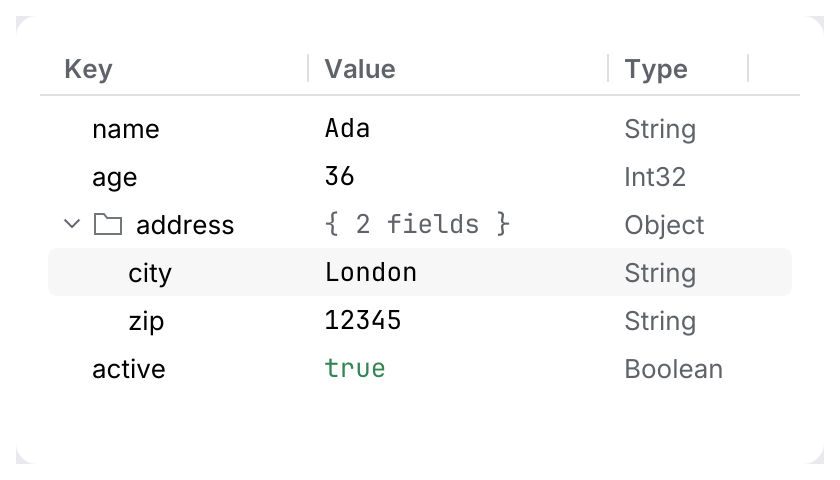
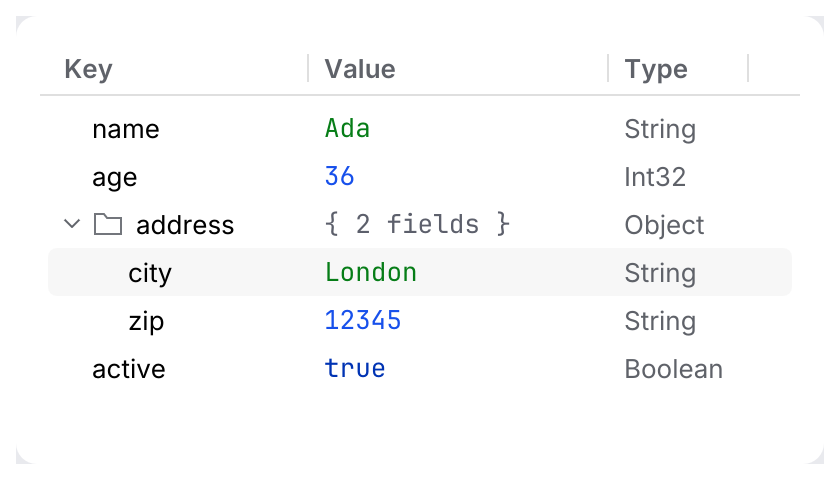
feat(collections): color table cells by value kind
Cell::value_kind(ValueKind) colors a cell with the editor syntax color of its
value type, in Table and TreeTable. Like a tone it keeps its color when the
row is selected; the last of .tone and .value_kind wins.

Claude-Session: https://claude.ai/code/session_0173x8kB9mSFHaRsoHsnffai

diff --git a/crates/archipel-kit/tests/collections.rs b/crates/archipel-kit/tests/collections.rs
@@ -7,7 +7,7 @@ use archipel_kit::components::{
 };
 use archipel_kit::icons::Language;
 use archipel_kit::testing::{self, NodeExt, Queryable};
-use archipel_kit::{Glyph, Theme, Tone};
+use archipel_kit::{Glyph, Theme, Tone, ValueKind};
 use egui::Key;
 
 fn label(i: usize) -> String {
@@ -382,15 +382,15 @@ fn document_cell(row: usize, col: usize, address_open: bool, name: &str, city: &
         ["name", "age", "address", "active"].as_slice()
     };
     match (keys[row], col) {
-        ("name", 1) => Cell::new(name).editable(true),
+        ("name", 1) => Cell::new(name).value_kind(ValueKind::String).editable(true),
         ("name", _) => Cell::new("String").muted(),
-        ("age", 1) => Cell::new("36").editable(true),
+        ("age", 1) => Cell::new("36").value_kind(ValueKind::Number).editable(true),
         ("age", _) => Cell::new("Int32").muted(),
-        ("address", 1) => Cell::new("{ 2 fields }").muted(),
+        ("address", 1) => Cell::new("{ 2 fields }").value_kind(ValueKind::Punctuation),
         ("address", _) => Cell::new("Object").muted(),
-        ("city", 1) => Cell::new(city).editable(true),
-        ("zip", 1) => Cell::new("12345"),
-        ("active", 1) => Cell::new("true").tone(Tone::Success),
+        ("city", 1) => Cell::new(city).value_kind(ValueKind::String).editable(true),
+        ("zip", 1) => Cell::new("12345").value_kind(ValueKind::Number),
+        ("active", 1) => Cell::new("true").value_kind(ValueKind::Boolean),
         ("active", _) => Cell::new("Boolean").muted(),
         _ => Cell::new("String").muted(),
     }
@@ -1027,4 +1027,42 @@ fn table_editing_snapshot() {
         ));
     }
     results.unwrap();
+}
+
+// ---- Cell::value_kind ----
+
+/// One row per value kind, the third (a string) selected: the kind colors stay when a row is
+/// selected, like tones do, and `.tone` still works next to `.value_kind`.
+#[test]
+fn table_value_kinds_snapshot() {
+    testing::snapshot_themes("table_value_kinds", common::IMG, |ui| {
+        ui.set_width(380.0);
+        let mut columns = vec![
+            Column::new("Kind", 90.0),
+            Column::new("Value", 200.0).mono(),
+            Column::new("Tone", 60.0),
+        ];
+        let mut selected = Some(0);
+        let samples = [
+            ("String", "\"Ada\"", ValueKind::String),
+            ("Number", "36", ValueKind::Number),
+            ("Boolean", "true", ValueKind::Boolean),
+            ("Null", "null", ValueKind::Null),
+            ("Date", "2026-10-11T09:30:00Z", ValueKind::Date),
+            ("ObjectId", "64f1a2b3c4d5e6f7a8b9c0d1", ValueKind::Id),
+            ("Binary", "BinData(0, 3q2+7w==)", ValueKind::Binary),
+            ("Key", "address", ValueKind::Key),
+            ("Punctuation", "{ 2 fields }", ValueKind::Punctuation),
+        ];
+        let _ = Table::new("kinds", &mut columns, samples.len(), &mut selected)
+            .height(24.0 * 9.0)
+            .show(ui, |row, col| match col {
+                0 => Cell::new(samples[row].0),
+                1 => Cell::new(samples[row].1).value_kind(samples[row].2),
+                // The last of tone and kind wins.
+                _ => Cell::new("tone")
+                    .value_kind(ValueKind::Number)
+                    .tone(Tone::Error),
+            });
+    });
 }

diff --git a/crates/archipel-kit/src/components/collections/mod.rs b/crates/archipel-kit/src/components/collections/mod.rs
@@ -14,7 +14,7 @@ pub use tree_table::TreeTable;
 use super::{ListRow, common};
 use crate::behaviour::{Behaviour, DragSource, DropTarget};
 use crate::icons::{self, Glyph, Icon};
-use crate::parts::Tone;
+use crate::parts::{Tone, ValueKind};
 use crate::theme::Theme;
 use crate::tokens::{radius, size, typography};
 use egui::{
@@ -591,12 +591,19 @@ impl Column {
     }
 }
 
+/// How a cell's text is colored: by meaning (a tone) or by value type.
+#[derive(Debug, Clone, Copy)]
+enum CellColor {
+    Tone(Tone),
+    Kind(ValueKind),
+}
+
 /// The content of a table cell.
 #[derive(Debug, Clone, Default)]
 pub struct Cell {
     text: String,
     icon: Option<Icon>,
-    tone: Option<Tone>,
+    color: Option<CellColor>,
     editable: bool,
 }
 
@@ -618,7 +625,7 @@ impl Cell {
     /// Meaning of the text's color: [`Tone::Error`] for a 500, [`Tone::Muted`] for nulls
     /// and timestamps.
     pub fn tone(mut self, tone: Tone) -> Self {
-        self.tone = Some(tone);
+        self.color = Some(CellColor::Tone(tone));
         self
     }
 
@@ -627,6 +634,15 @@ impl Cell {
     /// [`CollectionResponse::edited`].
     pub fn editable(mut self, editable: bool) -> Self {
         self.editable = editable;
+        self
+    }
+
+    /// The type of the value, colored like the code editor does ([`ValueKind::String`],
+    /// [`ValueKind::Number`], [`ValueKind::Null`] …): for document and JSON views. Like a
+    /// tone it keeps its color when the row is selected. Replaces an earlier
+    /// [`tone`](Self::tone) (and the other way round): the last call wins.
+    pub fn value_kind(mut self, kind: ValueKind) -> Self {
+        self.color = Some(CellColor::Kind(kind));
         self
     }
 
@@ -990,8 +1006,9 @@ pub(super) fn paint_cell(ui: &Ui, rect: Rect, column: &Column, cell: Cell, selec
     } else {
         typography::body(typography::BODY)
     };
-    let color = match (cell.tone, selected) {
-        (Some(tone), _) => tone.color(&colors),
+    let color = match (cell.color, selected) {
+        (Some(CellColor::Tone(tone)), _) => tone.color(&colors),
+        (Some(CellColor::Kind(kind)), _) => kind.resolve(ui.ctx()),
         (None, true) => colors.text_strong,
         (None, false) => colors.text,
     };

diff --git a/crates/archipel-kit-gallery/src/main.rs b/crates/archipel-kit-gallery/src/main.rs
@@ -198,9 +198,17 @@ impl Documents {
         .name("Documents")
         .height(220.0)
         .show(ui, |row, col| match self.index[row] {
-            (_, None) if col == 1 => Cell::new(format!("{{ {FIELDS} fields }}")).muted(),
+            (_, None) if col == 1 => {
+                Cell::new(format!("{{ {FIELDS} fields }}")).value_kind(ValueKind::Punctuation)
+            }
             (_, None) => Cell::new("Object").muted(),
-            (doc, Some(field)) if col == 1 => Cell::new(self.value(doc, field)).editable(true),
+            (doc, Some(field)) if col == 1 => Cell::new(self.value(doc, field))
+                .value_kind(match field % 3 {
+                    0 => ValueKind::Number,
+                    1 => ValueKind::String,
+                    _ => ValueKind::Boolean,
+                })
+                .editable(true),
             (_, Some(field)) => Cell::new(["Int32", "String", "Boolean"][field % 3]).muted(),
         });
         self.columns = columns;

diff --git a/docs/components/tree-table.md b/docs/components/tree-table.md
@@ -48,7 +48,7 @@ A double-click on a *non-editable* cell toggles a parent or activates a leaf, as
 
 ```rust
 use archipel_kit::components::{Cell, Column, TreeRow, TreeTable};
-use archipel_kit::{Glyph, egui};
+use archipel_kit::{Glyph, ValueKind, egui};
 
 struct Doc {
     columns: Vec<Column>,
@@ -69,9 +69,9 @@ fn document(ui: &mut egui::Ui, doc: &mut Doc) {
     let out = TreeTable::new("document", &mut doc.columns, &rows, &mut doc.selected)
         .name("Document")
         .show(ui, |row, col| match (row, col) {
-            (0, 1) => Cell::new(name.as_str()).editable(true),
-            (1, 1) => Cell::new("{ 1 field }").muted(),
-            (_, 1) => Cell::new("London"),
+            (0, 1) => Cell::new(name.as_str()).value_kind(ValueKind::String).editable(true),
+            (1, 1) => Cell::new("{ 1 field }").value_kind(ValueKind::Punctuation),
+            (_, 1) => Cell::new("London").value_kind(ValueKind::String),
             (1, _) => Cell::new("Object").muted(),
             _ => Cell::new("String").muted(),
         });
@@ -92,7 +92,7 @@ fn document(ui: &mut egui::Ui, doc: &mut Doc) {
 |---|---|
 | `TreeTable::new(id, &mut columns, &rows, &mut selected)` | `.sort(Option<(column, SortOrder)>)`, `.name(str)`, `.height(f32)`, `.show(ui, \|row, column\| Cell)` |
 | `TreeRow` | `.editable(bool)` for the key, plus `.parent`, `.icon`, `.secondary` as for `Tree` |
-| `Cell` | `.editable(bool)`, plus `.icon`, `.tone`, `.muted` as for `Table` |
+| `Cell` | `.editable(bool)`, `.value_kind(ValueKind)` (values in the editor's syntax colors, see [collections](collections.md#typed-values)), plus `.icon`, `.tone`, `.muted` as for `Table` |
 | `CellEdit` | `row`, `column`, `text` |
 | `CollectionResponse` | `selection_changed`, `activated`, `toggled`, `sort_clicked`, `edited` |
 

diff --git a/docs/components/collections.md b/docs/components/collections.md
@@ -71,6 +71,19 @@ fn grid(ui: &mut egui::Ui, grid: &mut Grid) {
 }
 ```
 
+### Typed values
+
+<picture>
+  <source media="(prefers-color-scheme: dark)" srcset="img/table_value_kinds.dark.png">
+  <img alt="A table with one row per value kind, each value in its editor syntax color" src="img/table_value_kinds.light.png" width="460">
+</picture>
+
+`Cell::value_kind(ValueKind)` colors a cell like the code editor colors the same kind of value
+(`String`, `Number`, `Boolean`, `Null`, `Date`, `Id`, `Binary`, `Key`, `Punctuation`; see
+[theming](../theming.md)): for document and JSON views, in `Table` and `TreeTable`. Like
+`.tone(Tone)` the color stays when the row is selected, and the last of the two calls wins.
+Use a tone for meaning (a 500 in red) and a kind for the type of data.
+
 ## The model
 
 All three work the same way:
@@ -172,7 +185,7 @@ fn results(
 | `TreeRow::new(label, depth)` | `.parent(expanded)`, `.icon(Icon)`, `.secondary(str)` |
 | `Table::new(id, &mut columns, len, &mut selected)` | `.sort(Option<(column, SortOrder)>)`, `.reorderable(bool)`, `.height(f32)`, `.show(ui, \|row, column\| Cell)` |
 | `Column::new(title, width)` | `.right()`, `.mono()`; `width` is public and changes when the user drags a header edge |
-| `Cell::new(text)` | `.editable(bool)`, `.icon(Icon)`, `.color(Color32)`, `.muted()`; `&str` and `String` convert into cells |
+| `Cell::new(text)` | `.value_kind(ValueKind)`, `.editable(bool)`, `.icon(Icon)`, `.color(Color32)`, `.muted()`; `&str` and `String` convert into cells |
 | `CollectionResponse` | `response`, `selection_changed`, `activated`, `toggled`, `sort_clicked`, `edited`, `column_order` |
 
 ## Behavior
